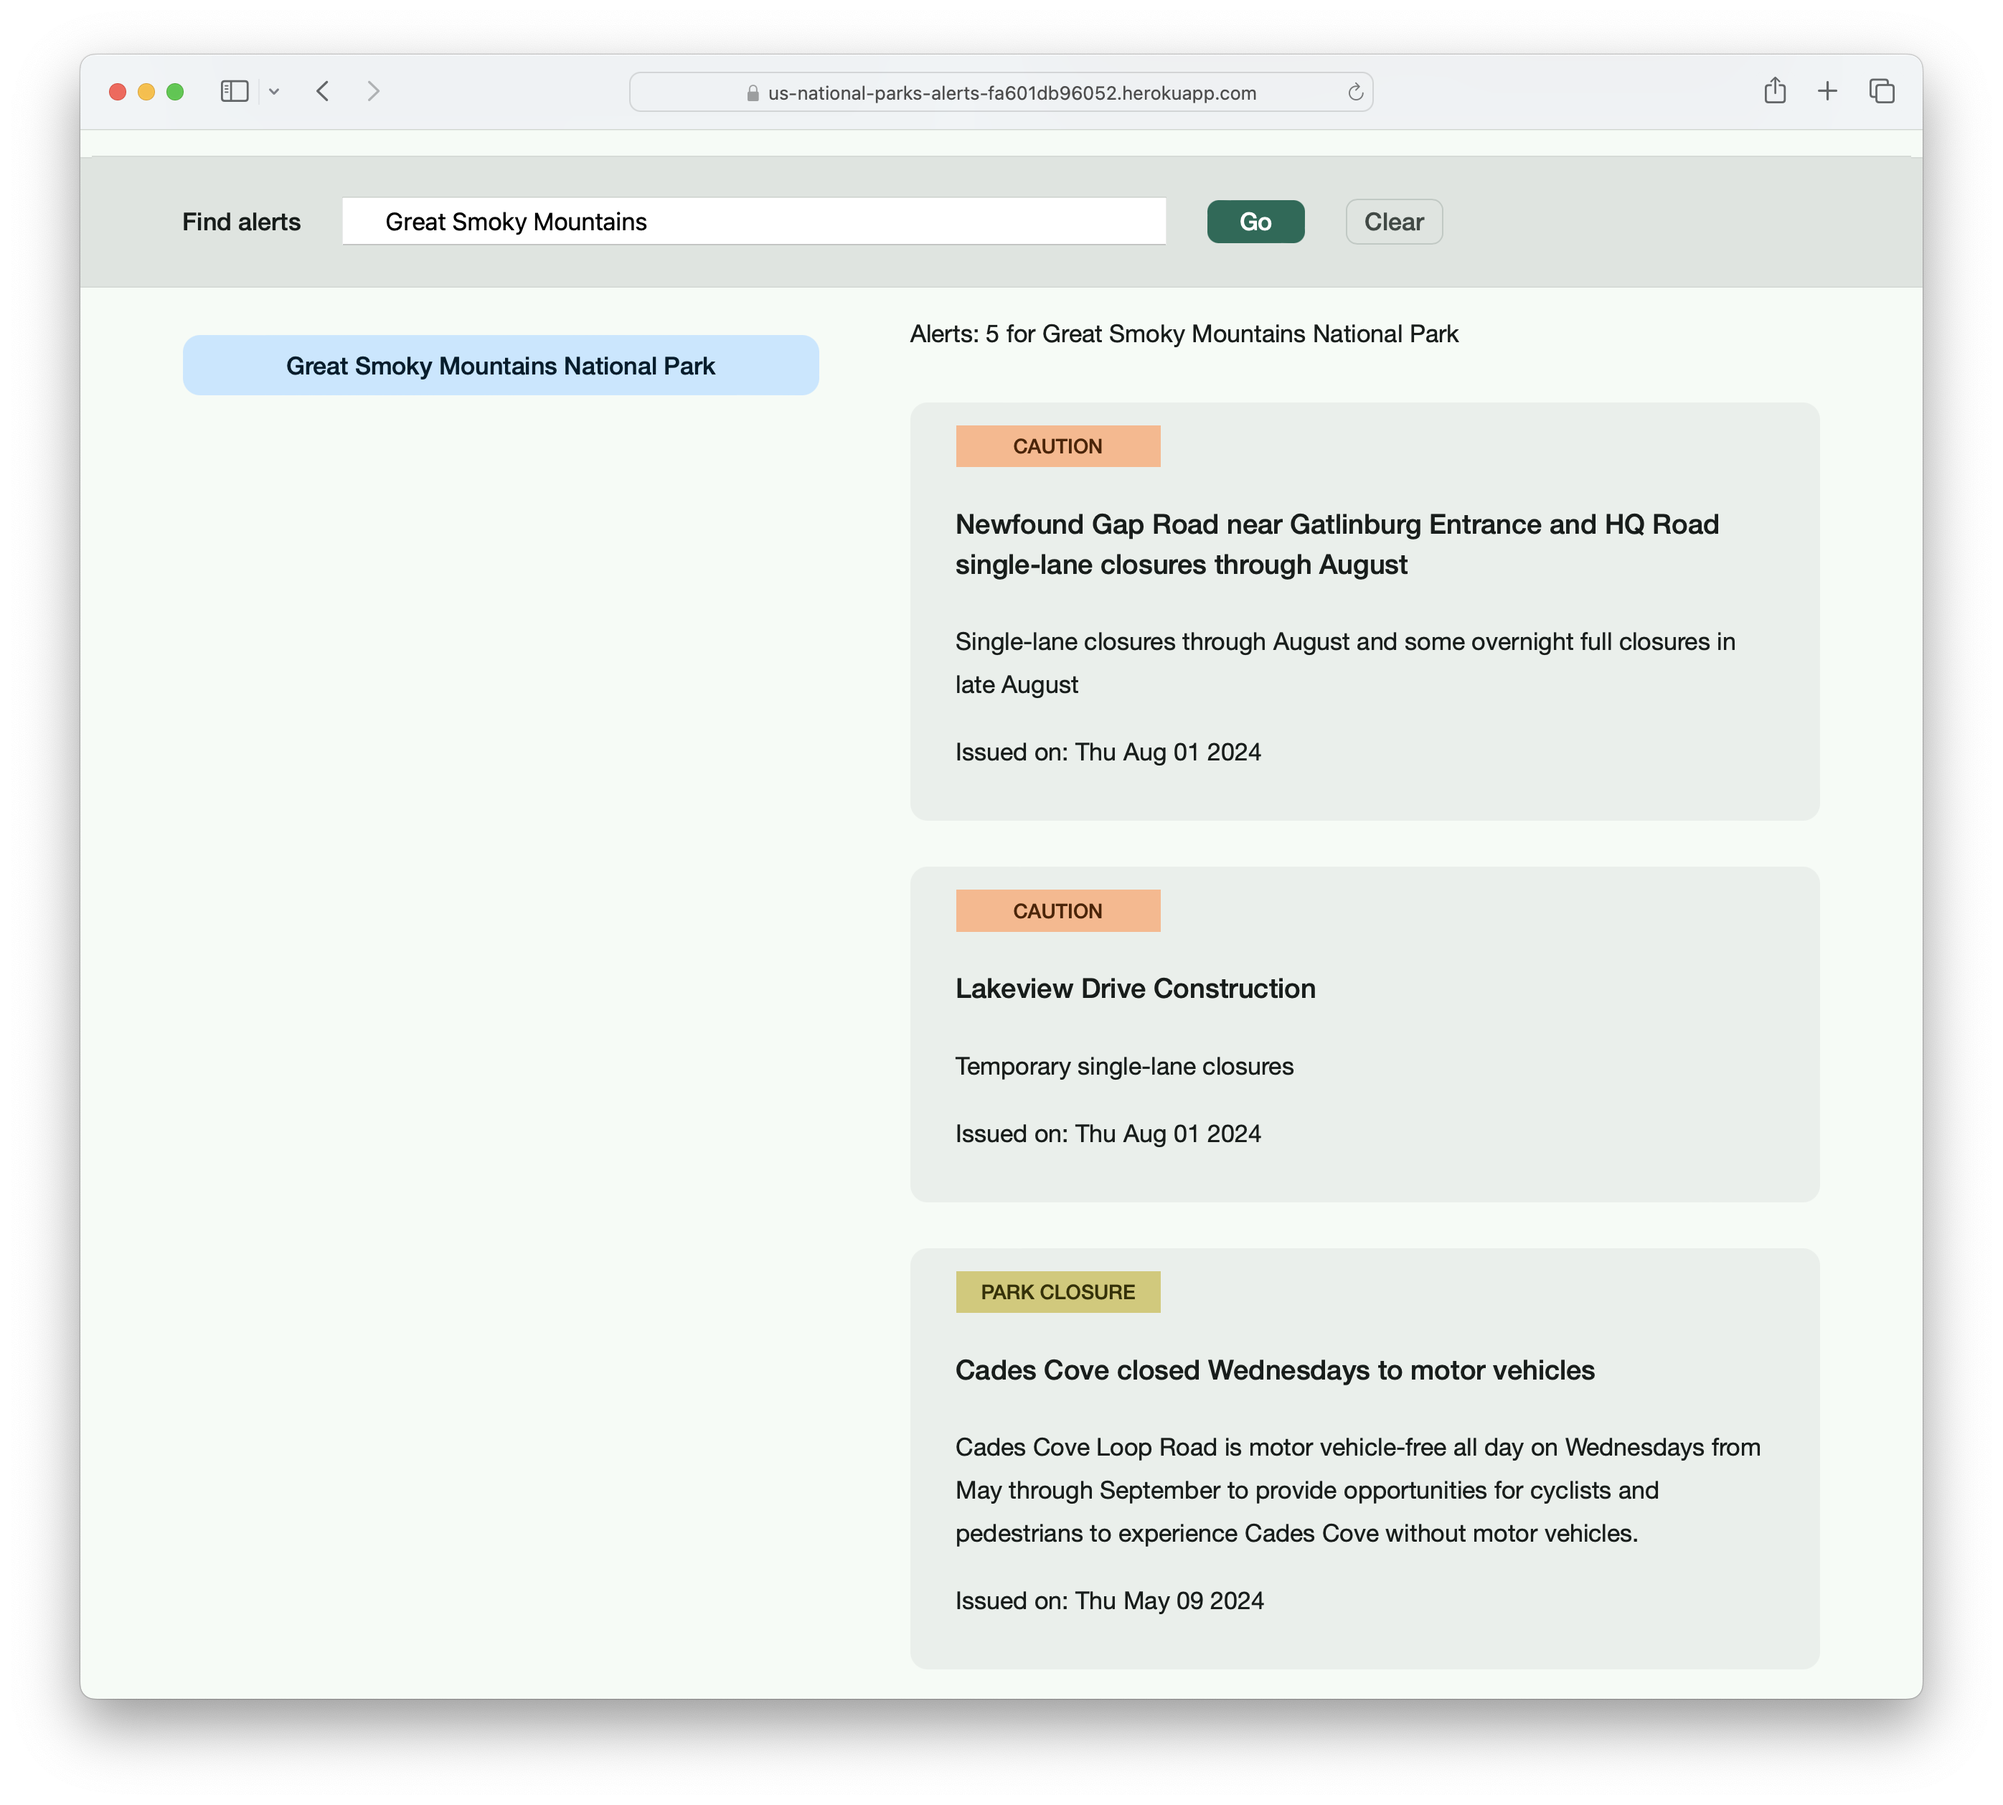
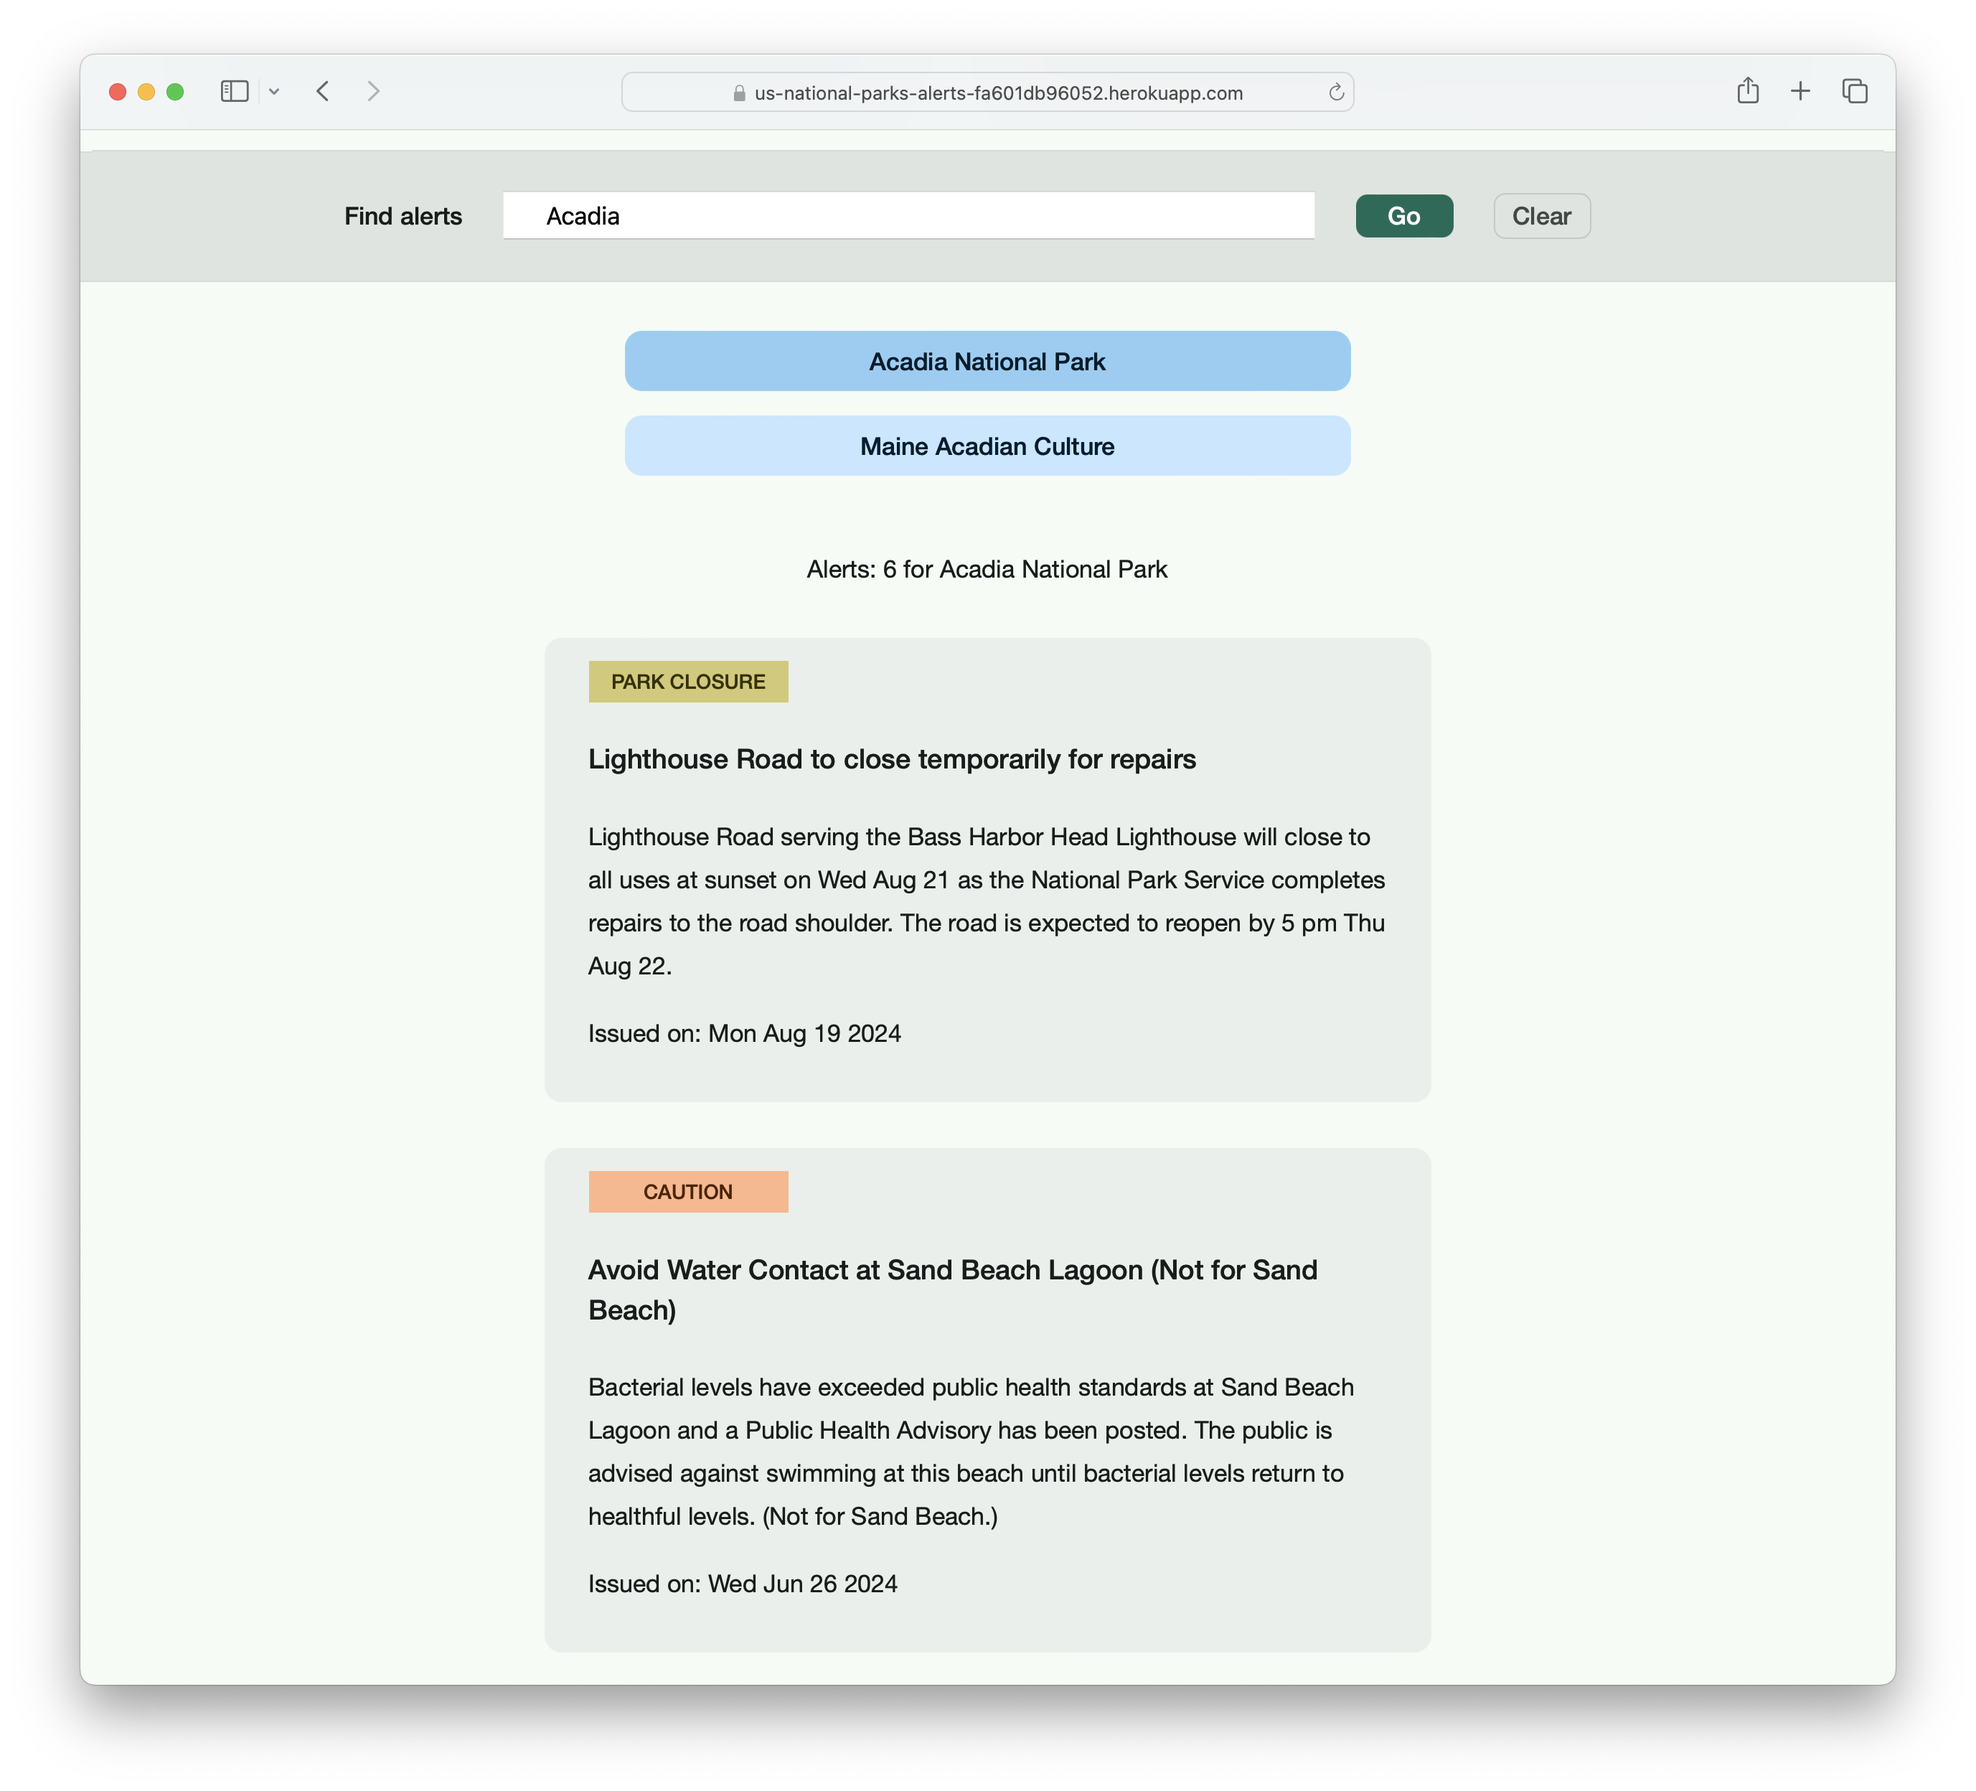
Redo screen shots after changing design.

diff --git a/README.md b/README.md
@@ -5,14 +5,14 @@ Searchable directory for alerts at National Park Service (NPS) parks in the US a
 
 ## Project Status
 
-TESTING: After making some renovations, I am testing: looking for bugs, accessibility issues, and usability issues.
+Project meets general accessibility (WACG) and cross-browser requirements. More testing with a dedicated services (e.g., Sauce Labs) would be helpful if deploying to production.
 
 ## Project Screen Shots
 
 * Starting view.
 ![screen shot of project](/screenshots/us-national-parks-alerts-screenshot1.png?s=600)
 
-* Alerts for Great Smoky Mountains National Park.
+* Alerts for Acadia National Park.
 ![screen shot of project](/screenshots/us-national-parks-alerts-screenshot2.png?s=600)
 
 ## Installation and Setup Instructions
